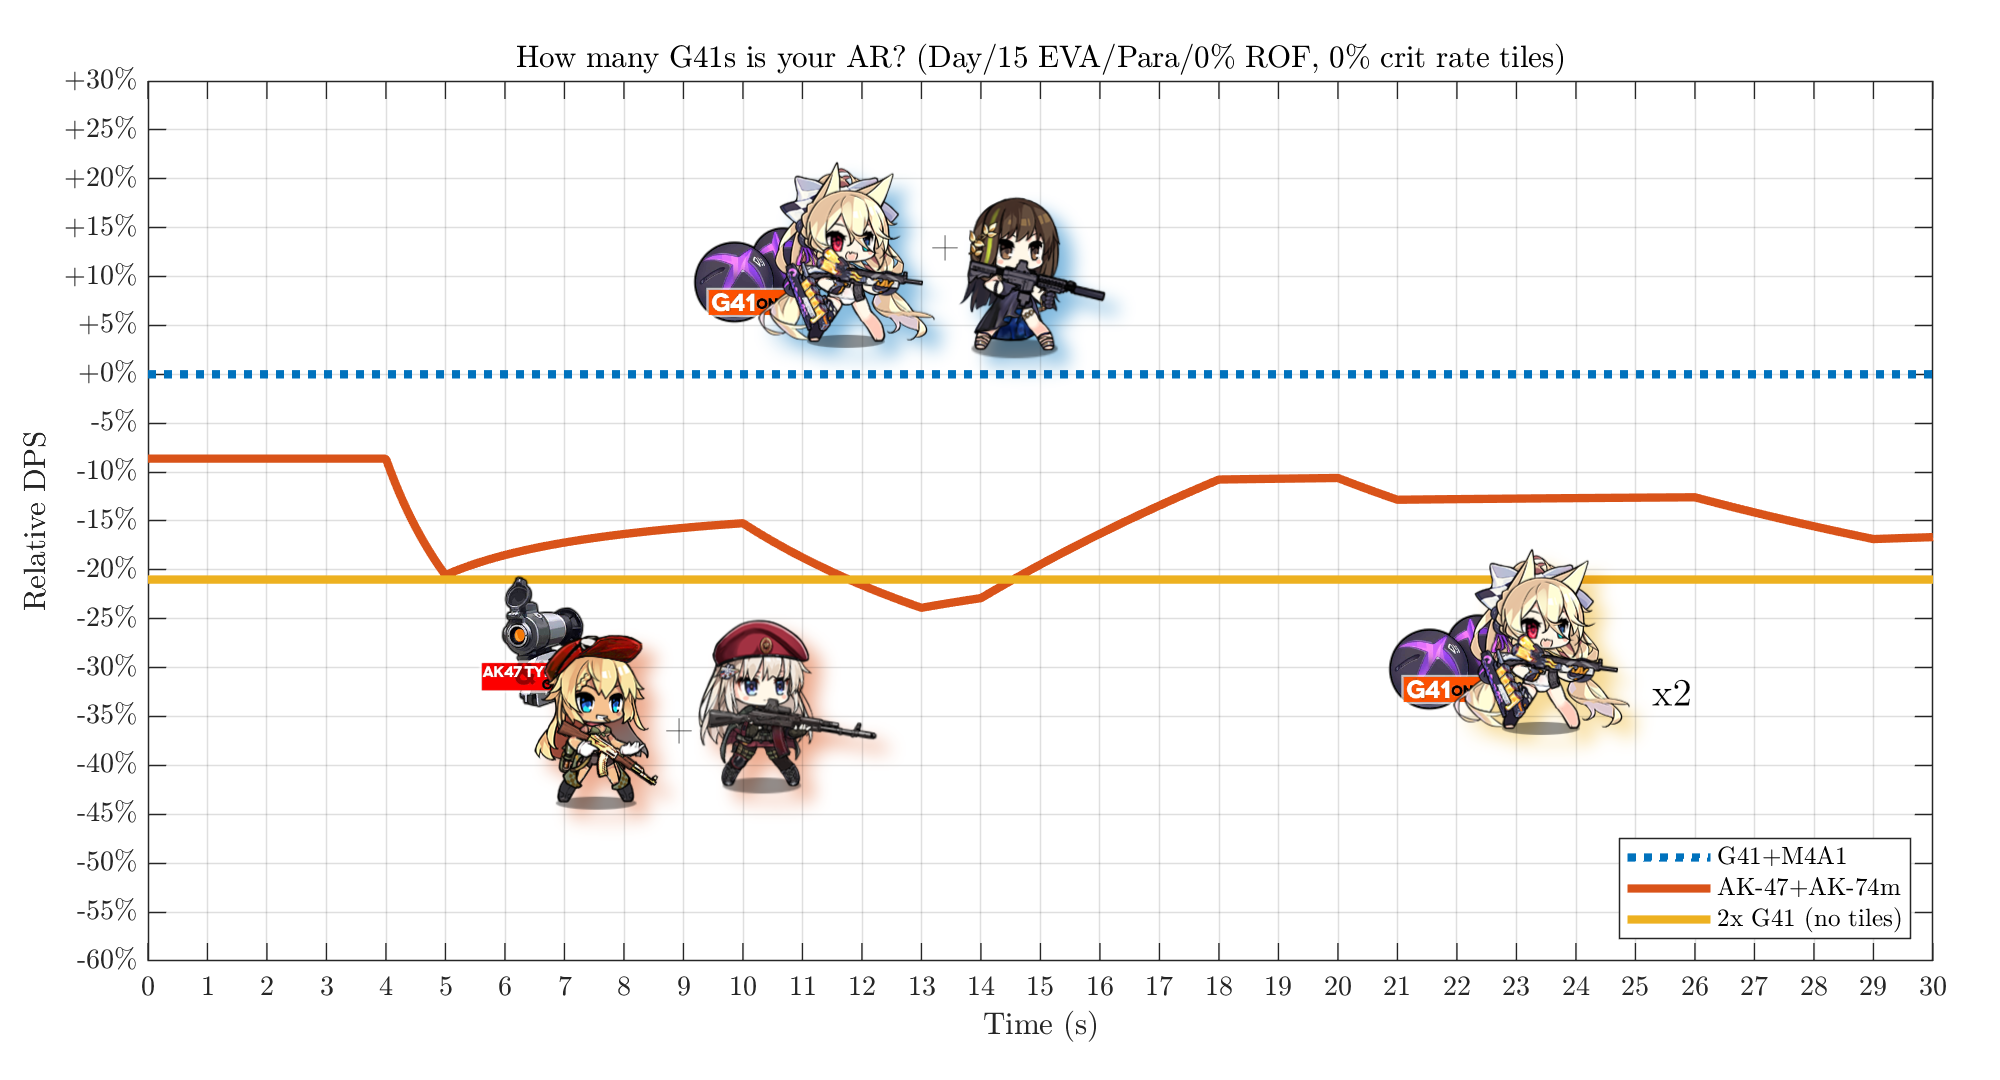
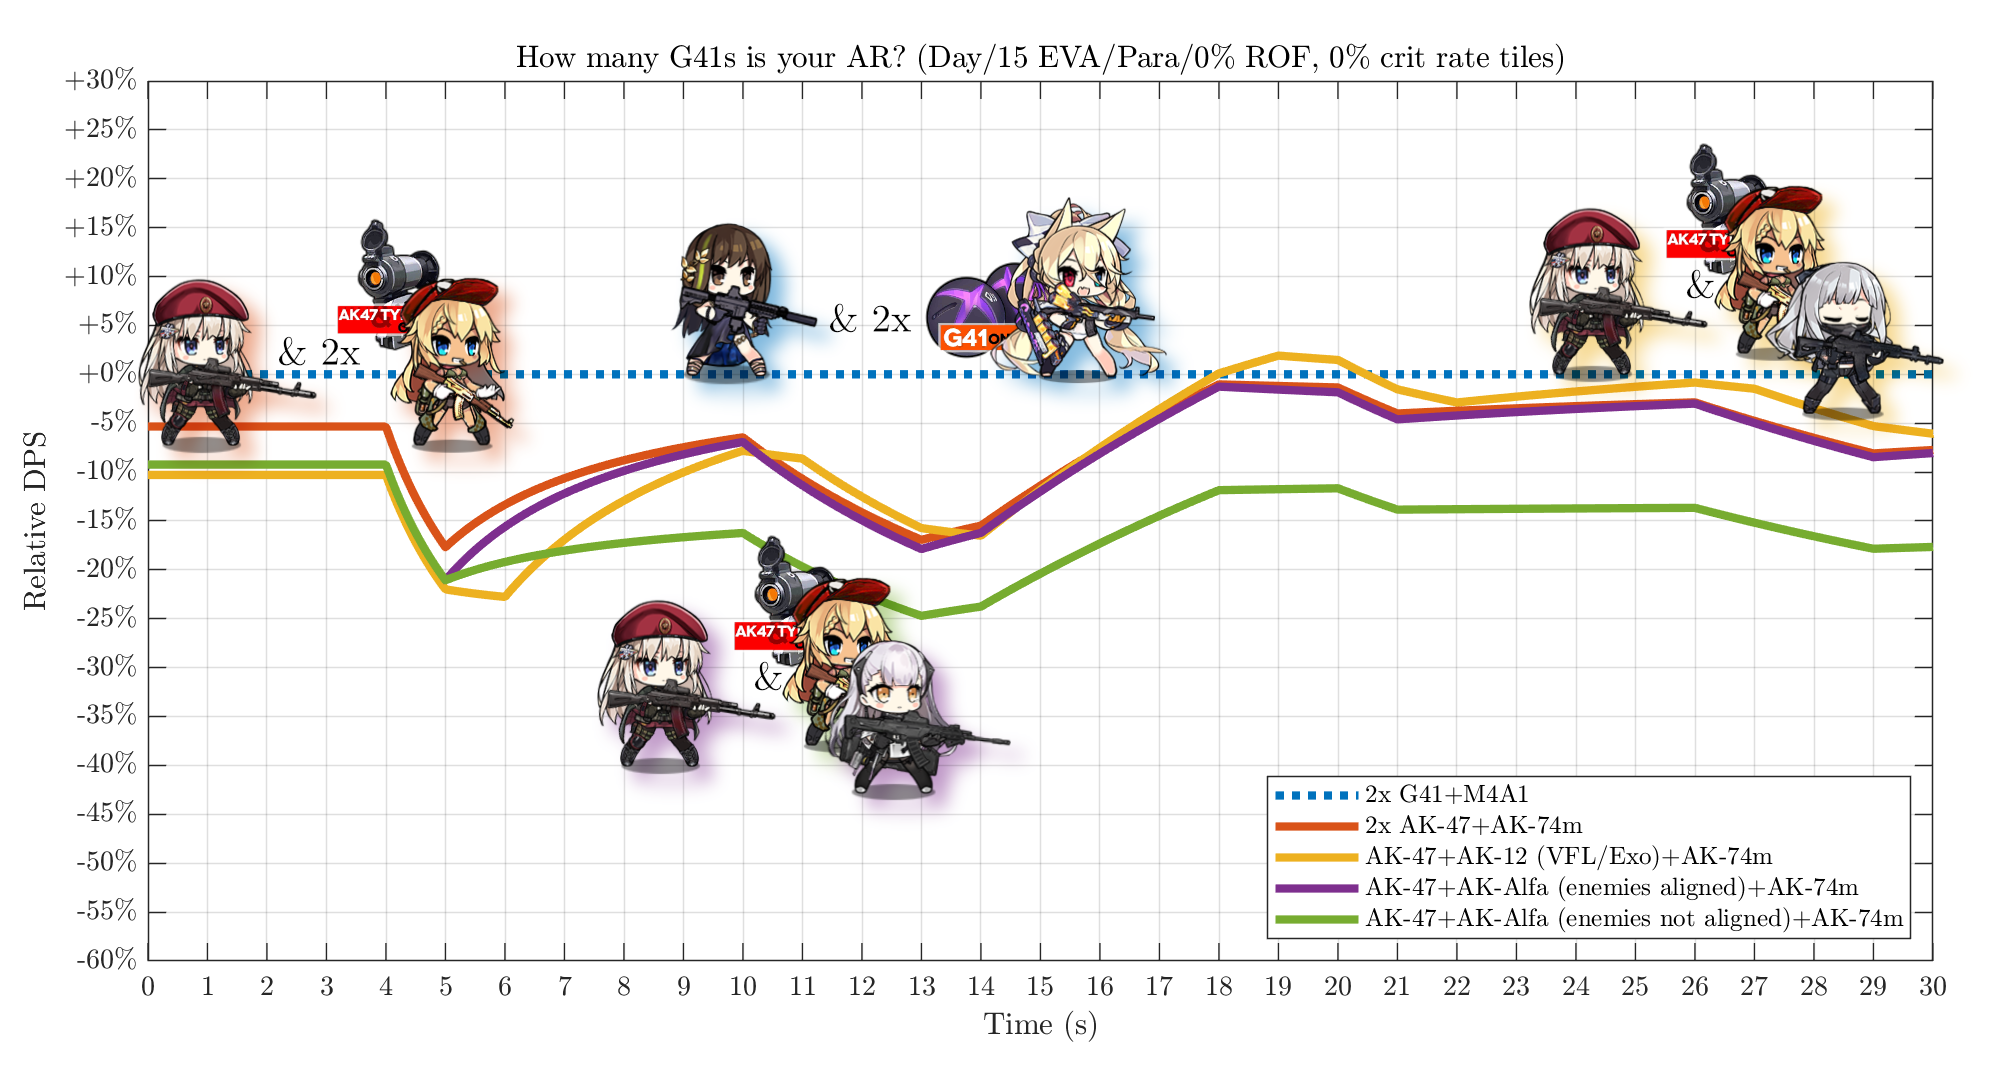
474m: improve full-team results

Changed region(s): [[0.062, 0.1222, 0.992, 0.8861], [0.558, 0.4278, 0.682, 0.4889], [0.93, 0.7028, 0.961, 0.7333]]

diff --git a/pages/474m.html b/pages/474m.html
@@ -158,14 +158,15 @@ gtag('config', 'G-805N997DPC');
 	She has her own permanent 5% FP & ROF buff, but that's a far cry from M4A1's 75% selfbuff (and crazy mod3 SPEQ).
 </p>
 <p>
-	Now, the same chart but adding G41 & M4's numbers as well as 47 & 74M's:
+	Now, the same chart but adding G41 & M4's numbers as well as 47 & 74M's (plus another AK to keep things fair):
 </p>
 <center><div class="figure">
 	<img src="images/474m/ak474m-combined.png" width="100%"/>
 </div><em></em></center>
 <p>
-	AK-74M's DPS drags down the team, and G41+M4A1 have better performance no matter how long the battle goes on for.
-	Even just 2x G41s, with no supporting tiles, does about the same.
+	AK-74M's DPS drags down the team, and G41+M4A1 have better performance almost across the board.
+	The buffs to AK-12 and AK-Alfa's skills don't seem to be enough to cover the difference.
+	Note that AK-15, especially with her eventual mod, gets a bit trickier to evaluate.
 </p>
 
 <span class="anchor" id="conclusion"></span>
